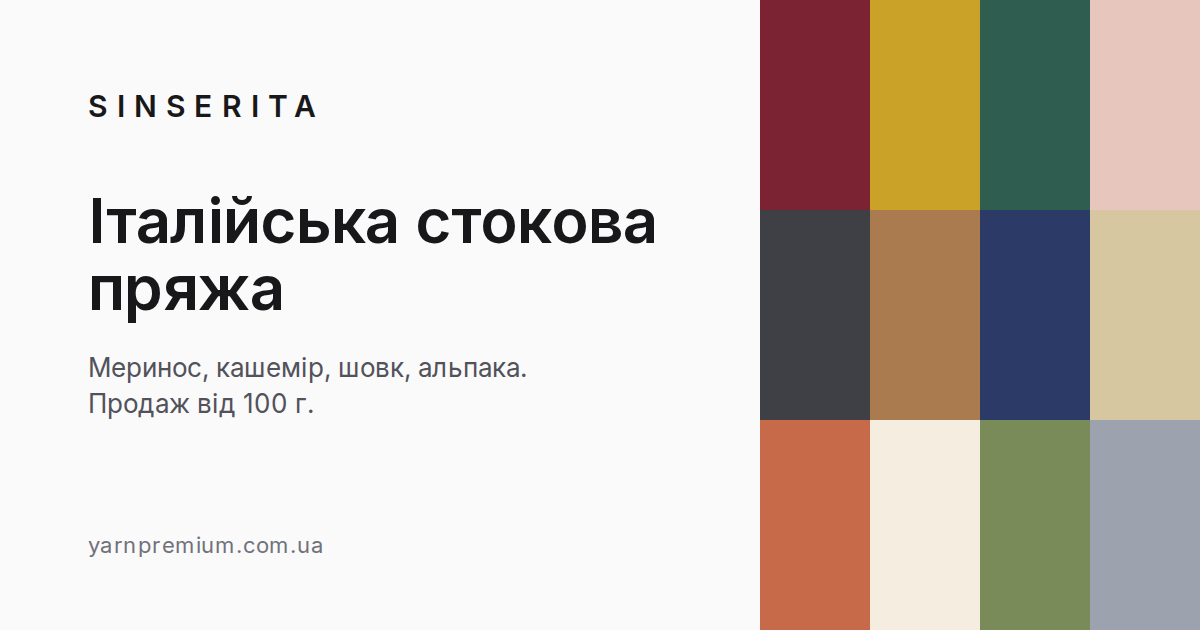
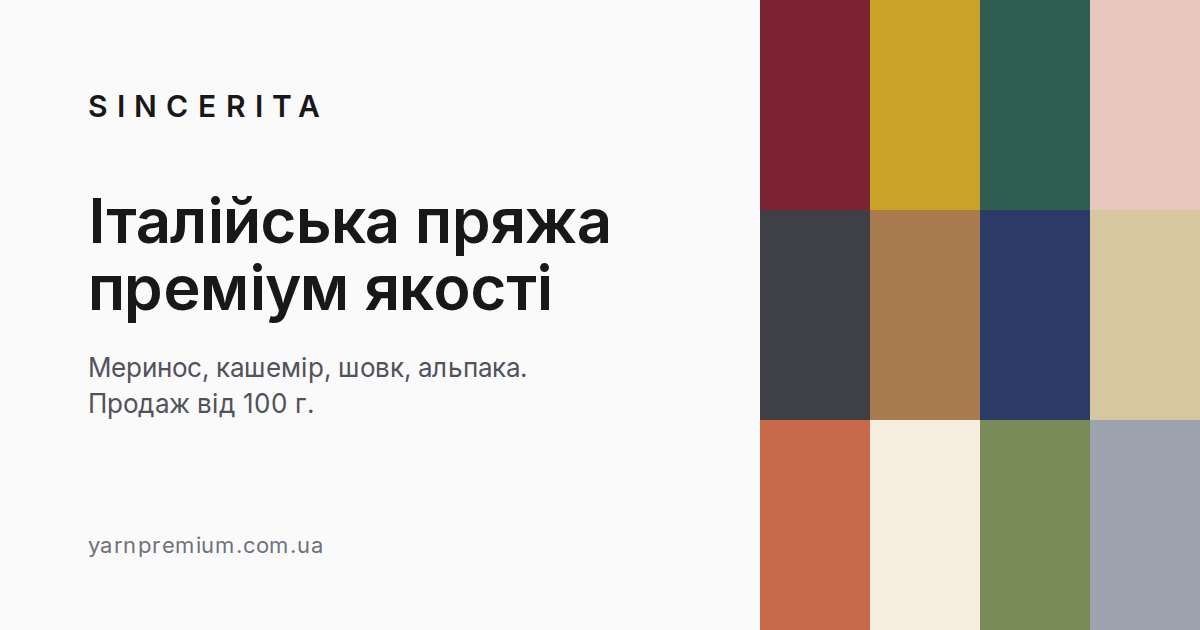
Brand name SINCERITA and tagline «Італійська пряжа преміум якості»
Fix the brand spelling across the header, footer, page titles and share
image, and replace «стокова пряжа» with the new tagline. Browser storage
keys keep their old prefix so carts and wishlists survive.

Claude-Session: https://claude.ai/code/session_01NnPq7SVHTDTVVgnf1JZai2

Changed region(s): [[0.1233, 0.3317, 0.555, 0.5127], [0.1233, 0.1508, 0.2775, 0.2111]]

diff --git a/app/layout.tsx b/app/layout.tsx
@@ -11,11 +11,11 @@ import { BRAND, SITE_INDEXABLE, SITE_URL } from "@/lib/site"
 const inter = Inter({ subsets: ["latin", "cyrillic"] })
 
 const DESCRIPTION =
-  "Італійська стокова пряжа для в'язання: меринос, кашемір, шовк, альпака. Продаж на вагу від 100 г, доставка Новою Поштою та Укрпоштою."
+  "Італійська пряжа преміум якості для в'язання: меринос, кашемір, шовк, альпака. Продаж на вагу від 100 г, доставка Новою Поштою та Укрпоштою."
 
 export const metadata: Metadata = {
   metadataBase: new URL(SITE_URL),
-  title: { default: `${BRAND} — італійська стокова пряжа`, template: `%s — ${BRAND}` },
+  title: { default: `${BRAND} — італійська пряжа преміум якості`, template: `%s — ${BRAND}` },
   description: DESCRIPTION,
   applicationName: BRAND,
   openGraph: { type: "website", siteName: BRAND, locale: "uk_UA", description: DESCRIPTION },

diff --git a/components/shop/footer.tsx b/components/shop/footer.tsx
@@ -13,7 +13,7 @@ export function Footer() {
       <div className="mx-auto max-w-[1400px] px-4 py-10">
         <div className="flex flex-col gap-6 sm:flex-row sm:items-center sm:justify-between">
           <Link href="/" className="text-sm font-semibold uppercase tracking-[0.2em] text-zinc-900 dark:text-zinc-100">
-            SINSERITA
+            SINCERITA
           </Link>
 
           <nav aria-label="Інформація про магазин">
@@ -33,7 +33,7 @@ export function Footer() {
 
           <p className="text-xs text-zinc-400 dark:text-zinc-500">
             {"© "}
-            {new Date().getFullYear()} SINSERITA. Усі права захищено.
+            {new Date().getFullYear()} SINCERITA. Усі права захищено.
           </p>
         </div>
       </div>

diff --git a/app/blog/page.tsx b/app/blog/page.tsx
@@ -25,7 +25,7 @@ export default function BlogPage() {
           <Link href="/" className="text-sm text-zinc-400 hover:text-zinc-600">
             ← До магазину
           </Link>
-          <p className="mt-6 text-xs font-medium uppercase tracking-[0.2em] text-zinc-400">SINSERITA</p>
+          <p className="mt-6 text-xs font-medium uppercase tracking-[0.2em] text-zinc-400">SINCERITA</p>
           <h1 className="mt-2 text-4xl font-semibold tracking-tight text-zinc-900 text-balance">Журнал</h1>
           <p className="mt-2 max-w-lg text-zinc-500 text-pretty">
             Поради з в'язання, гайди по пряжі та історії майстрів.

diff --git a/components/shop/minimal-shop.tsx b/components/shop/minimal-shop.tsx
@@ -104,7 +104,7 @@ export default function MinimalShop({ products }: { products: Product[] }) {
       />
 
       <div className="mx-auto max-w-[1400px] px-4 pt-6 lg:pt-12 pb-16">
-        <h1 className="sr-only">SINSERITA — стокова пряжа для в&apos;язання</h1>
+        <h1 className="sr-only">SINCERITA — італійська пряжа преміум якості</h1>
         <div className="flex flex-col lg:flex-row gap-8 lg:gap-10">
           {/* Desktop: filters in a sidebar. Phones get them in a panel, so products come first. */}
           <div id="filters-sidebar" className="hidden lg:block lg:w-64 shrink-0">

diff --git a/app/[slug]/page.tsx b/app/[slug]/page.tsx
@@ -118,7 +118,7 @@ export default async function InfoPage({ params }: { params: Promise<{ slug: str
 
         <header className="mt-8">
           <p className="text-xs font-semibold uppercase tracking-[0.2em] text-zinc-400 dark:text-zinc-500">
-            SINSERITA
+            SINCERITA
           </p>
           <h1 className="mt-3 text-3xl font-semibold tracking-tight text-zinc-900 text-balance dark:text-zinc-50 md:text-4xl">
             {page.title}

diff --git a/components/shop/top-bar.tsx b/components/shop/top-bar.tsx
@@ -59,7 +59,7 @@ export function TopBar({
           href="/"
           className="text-sm font-semibold uppercase tracking-[0.2em] text-zinc-900 dark:text-zinc-100 shrink-0"
         >
-          SINSERITA
+          SINCERITA
         </Link>
         <div className="flex-1 min-w-0 px-4 flex items-center [justify-content:safe_center] gap-2 overflow-x-auto scrollbar-none">
           <button

diff --git a/components/shop/site-content.ts b/components/shop/site-content.ts
@@ -49,7 +49,7 @@ export type SitePage = {
 
 import { COD_PREPAYMENT, PICKUP_POINT } from "@/lib/order"
 
-const BRAND = "SINSERITA"
+const BRAND = "SINCERITA"
 
 const contacts: ContactInfo = {
   address: ["Україна, 29025", "м. Хмельницький, вул. Романа Шухевича, 20"],

diff --git a/lib/site.ts b/lib/site.ts
@@ -1,6 +1,6 @@
 // Site-wide constants for metadata, sitemap and robots.
 
-export const BRAND = "SINSERITA"
+export const BRAND = "SINCERITA"
 
 /**
  * Public address of the shop. NEXT_PUBLIC_SITE_URL wins; otherwise Vercel's
